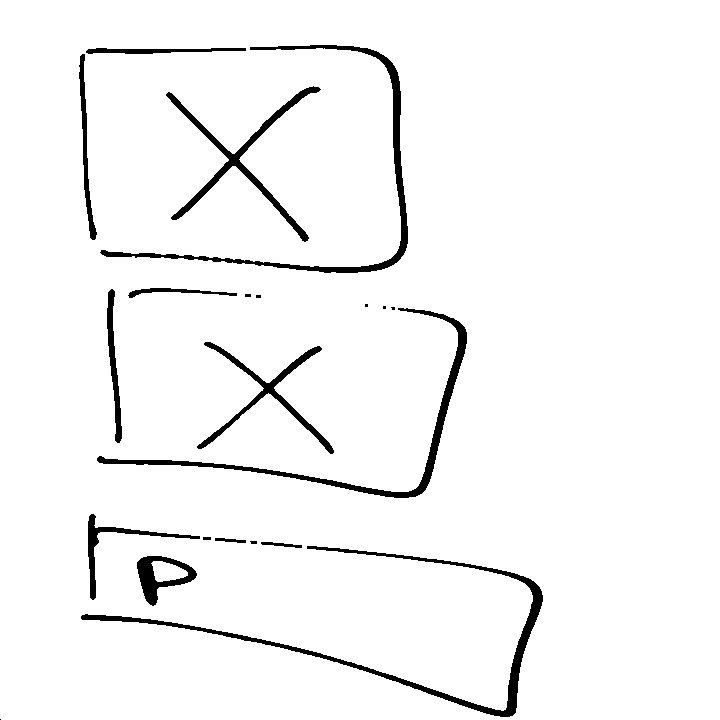
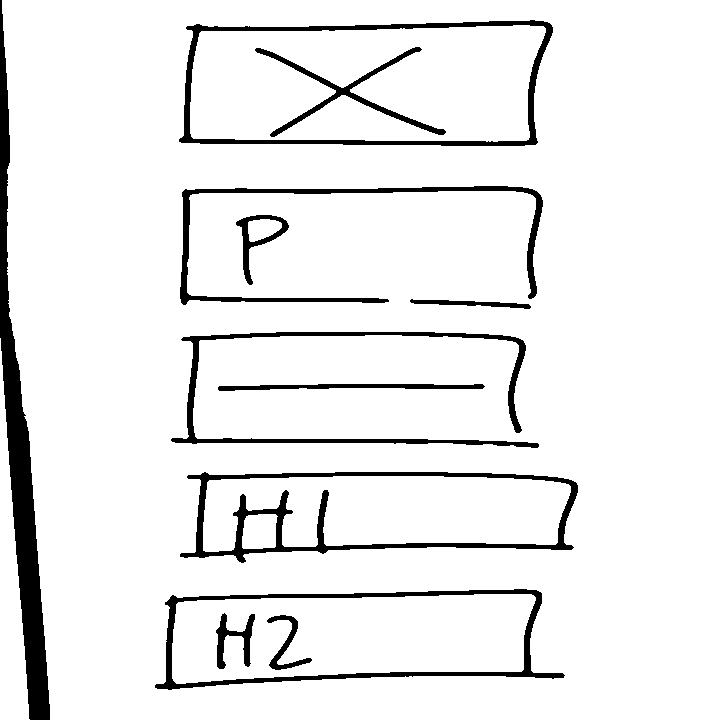
finishing touches to css

Changed region(s): [[0.0917, 0.0306, 0.825, 1.0], [0.0, 0.0, 0.0917, 1.0]]

diff --git a/test.html b/test.html
@@ -1,0 +1,81 @@
+<!DOCTYPE html>
+<html>
+<head>
+	<meta name = "viewport" content = "width = device-width, initial-scale = 1, maximum-scale = 1.0, user-scalable = 0"/>
+	<link rel="stylesheet" type="text/css" href="style.css"/>
+<style>
+body{
+	position: relative;
+	background-color: #293030;
+	width: 100vw;
+	height: 100vw;
+}
+#img1{
+	position: relative;
+	top: 2.5%;
+	left: 24.583333333333332%;
+	width: 52.91666666666667%;
+	height: 18.75%;
+}
+#p1{
+	position: relative;
+	margin: 0%;
+	padding: 1px;
+	overflow: scroll;
+	color: white;
+	border: 1px white dashed;
+	top: 6.666666666666668%;
+	left: 24.583333333333332%;
+	width: 51.66666666666667%;
+	height: 18.333333333333332%;
+}
+#button1{
+	position: relative;
+	top: 8.750000000000007%;
+	left: 23.333333333333332%;
+	width: 52.5%;
+	height: 17.08333333333333%;
+}
+#h11{
+	position: relative;
+	margin: 0%;
+	padding: 1px;
+	overflow: scroll;
+	color: white;
+	border: 1px white dashed;
+	top: 10.833333333333343%;
+	left: 24.583333333333332%;
+	width: 56.66666666666667%;
+	height: 14.166666666666671%;
+}
+#h31{
+	position: relative;
+	margin: 0%;
+	padding: 1px;
+	overflow: scroll;
+	color: white;
+	border: 1px white dashed;
+	top: 12.916666666666671%;
+	left: 21.25%;
+	width: 57.91666666666667%;
+	height: 15.416666666666671%;
+}
+</style>
+</head>
+<body>
+	<img id = "img1" class = "img">
+		<p id = "p1" class = "p">
+		Lorem ipsum dolor sit amet, pri nostrud scaevola at, ex agam habeo assueverit mei.
+	</p>
+	<button id = "button1" class = "button">
+	</button>
+	<h1 id = "h11" class = "h1">
+		Lorem ipsum dolor sit amet, pri nostrud scaevola at, ex agam habeo assueverit mei.
+		Lorem ipsum dolor sit amet, pri nostrud scaevola at, ex agam habeo assueverit mei.
+	</h1>
+	<h3 id = "h31" class = "h3">
+		Lorem ipsum dolor sit amet, pri nostrud scaevola at, ex agam habeo assueverit mei.
+		Lorem ipsum dolor sit amet, pri nostrud scaevola at, ex agam habeo assueverit mei.
+	</h3>
+</body>
+</html>

diff --git a/HTML.py b/HTML.py
@@ -47,8 +47,8 @@ class HTML():
 			if len(row) == 1:
 				t = heappop(row)
 				moveY = t.tly - self.last
-				t.style += '\ttop: ' + str(moveY) + 'vh;\n'
-				t.style += '\tleft: ' + str(t.tlx) + 'vw;\n'
+				t.style += '\ttop: ' + str(moveY) + '%;\n'
+				t.style += '\tleft: ' + str(t.tlx) + '%;\n'
 				#total vertical adjustments
 				self.last = t.bry - moveY if moveY > 0 else 0
 				self.root.children.append(t)
@@ -85,7 +85,7 @@ class HTML():
 				' scaevola at, ex agam habeo assueverit mei.\n'))
 		if t.style != '':
 			inlineCSS.append('#' + t.id + '{\n' + t.style + '\twidth: ' \
-				+ str(t.wPct) + 'vw;\n\theight: ' + str(t.hPct) + 'vh;\n}\n')
+				+ str(t.wPct) + '%;\n\theight: ' + str(t.hPct) + '%;\n}\n')
 		for sub in t.children:
 			HTML.helper(htmlBody, inlineCSS, sub, tabs + '\t')
 		htmlBody.append(tabs + t.closeTag())

diff --git a/Tag.py b/Tag.py
@@ -81,17 +81,17 @@ class Tag:
 		#horizontal adjustment
 		ax = 100 * (a.tlx - t.tlx) / t.W
 		if ax > 0:
-			a.style += '\tleft: ' + str(ax) + 'vw;\n'
+			a.style += '\tleft: ' + str(ax) + '%;\n'
 		bx = 100 * (b.tlx - t.tlx) / t.W
 		if bx > 0:
-			b.style += '\tleft: ' + str(bx) + 'vw;\n'
+			b.style += '\tleft: ' + str(bx) + '%;\n'
 		#vertical adjustment
 		ay = 100 * (a.tly - t.tly) / t.H
 		if ay > 0:
-			a.style += '\ttop: ' + str(ay) + 'vh;\n'
+			a.style += '\ttop: ' + str(ay) + '%;\n'
 		by = 100 * (b.tly - t.tly - a.H) / t.H
 		if by != 0:
-			b.style += '\ttop: ' + str(by) + 'vh;\n'
+			b.style += '\ttop: ' + str(by) + '%;\n'
 		return t
 
 	#returns opening tag to be written in html file

diff --git a/myDetect.py b/myDetect.py
@@ -99,7 +99,7 @@ def cut_predict(img, real, num):
 def ml_cut_predict(img, real, num):
   data = []
   d = 0
-
+  height, width, _ = img.shape
   top_pick = ''
   for x,y,w,h in real:
     top_pick = 'garbage'
@@ -141,8 +141,11 @@ def ml_cut_predict(img, real, num):
     maxId = process_prediction(top_pick)
     if maxId == 'not a tag':
       continue
-
-    data.append([x, y, x+w, y+h, maxId])
+    new_x = x * 100.0 / width
+    new_y = y * 100.0 / height
+    new_w = (x+w) * 100.0 / width
+    new_h = (y+h) * 100.0 / height
+    data.append([new_x, new_y, new_w, new_h, maxId])
     d += 1
   return data
 
